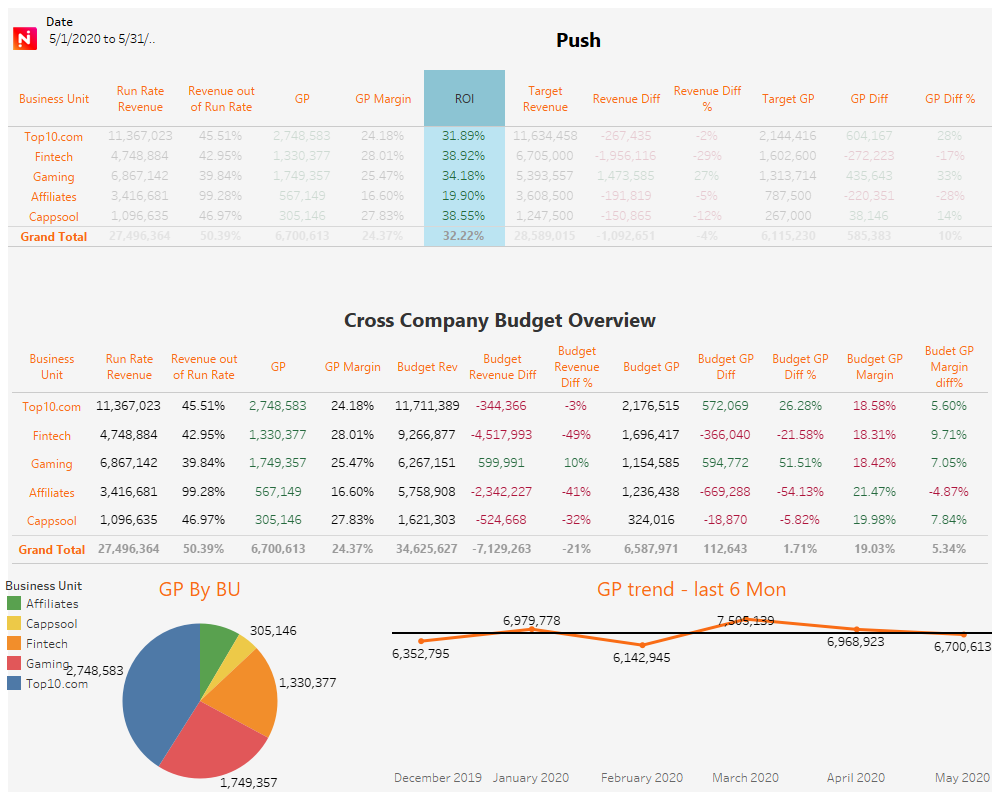
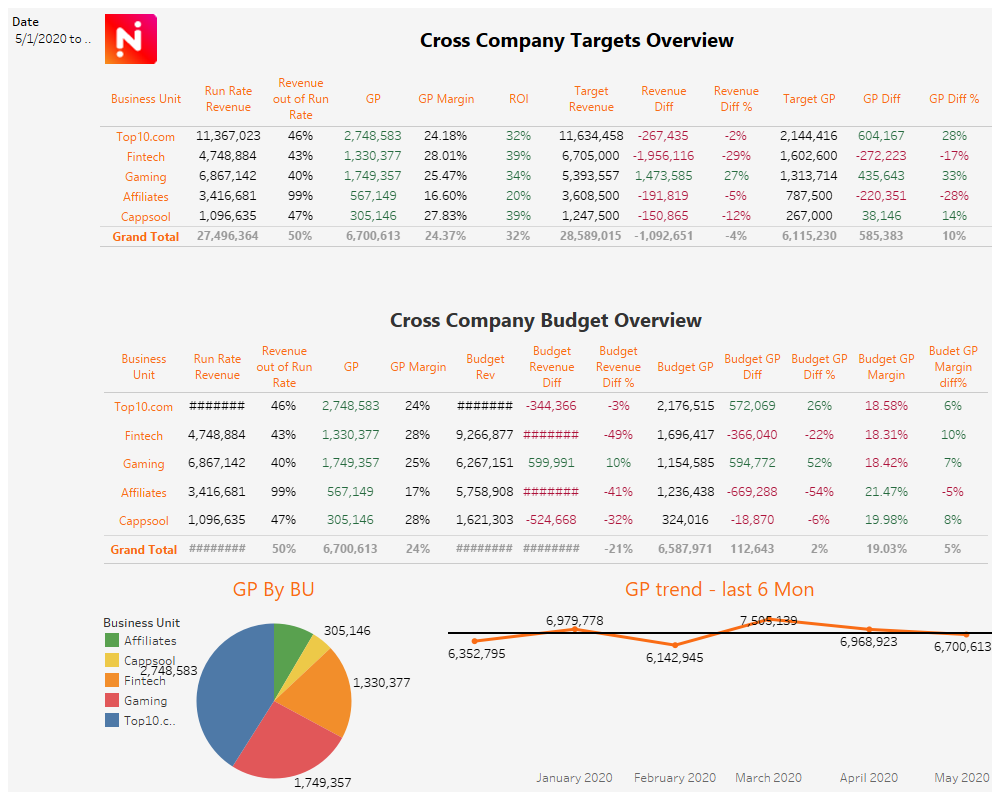
'push6'

diff --git a/venv/MediaProfit.py b/venv/MediaProfit.py
@@ -36,7 +36,7 @@ tableau_auth = TSC.TableauAuth('admin', 'xqKE4ynYHzoGCiVwPWsBGZrT')
 server = TSC.Server('https://tableau.naturalint.com',use_server_version=True)
 
 with server.auth.sign_in(tableau_auth):
-    group = (getUserListByGroup(server,"Push Tests"))
+    group = (getUserListByGroup(server,"push(test)-nir"))
     users = []
     pagination_item = server.groups.populate_users(group)
     for user in group.users:
@@ -46,9 +46,9 @@ with server.auth.sign_in(tableau_auth):
     # for v in views:
     #     print("name = " +v.name + ", id = "+ v.id)
     # breakpoint()
-    # view_item = (getViewByWbIdAndviewName(server,
-    #     getWorkbookByName(server, "Media Profit").id, s.strip("Push")))
-    view_item = getViewById(server,'3ef50c2c-990e-4c39-9793-a00e49c64d76')
+    view_item = (getViewByWbIdAndviewName(server,
+        getWorkbookByName(server, "Media Profit").id, "Push Mail"))
+    #view_item = getViewById(server,'3ef50c2c-990e-4c39-9793-a00e49c64d76')
     server.views.populate_image(view_item)
 
     with open('./Screenshots/dashboard-screenshot-'+ str(date.today()) +'.png', 'wb') as f:
@@ -64,7 +64,7 @@ with server.auth.sign_in(tableau_auth):
     message["From"] = sender_email
     messageText = '<html><body><h3>Dear all, please review ' + str(datetime.datetime.now().strftime("%B")) + \
                   ' Rev & GP status as of ' + str(date.today()) + ' below & ' \
-                  '<a href = "https://tableau.naturalint.com/#/views/MediaProfit_15837716869430/ManagementDashboard"> linked </a>' \
+                  '<a href = "https://tableau.naturalint.com/#/views/MediaProfit_15837716869430/Push?:iid=1"> linked </a>' \
                   '</h3>' + '<p>' '<img src="cid:image1" height="800" width="1000">' \
                     '</p>' + '</body></html>'
     message.attach(MIMEText(messageText, "html"))
